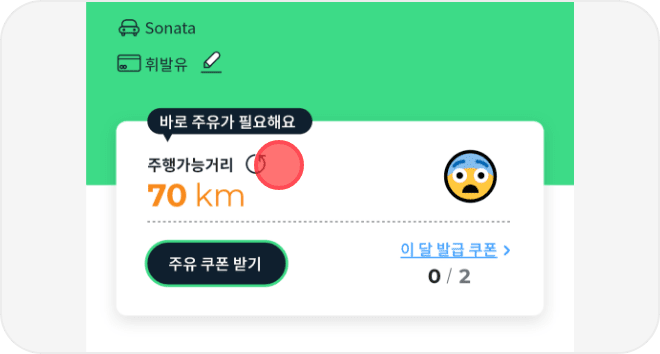
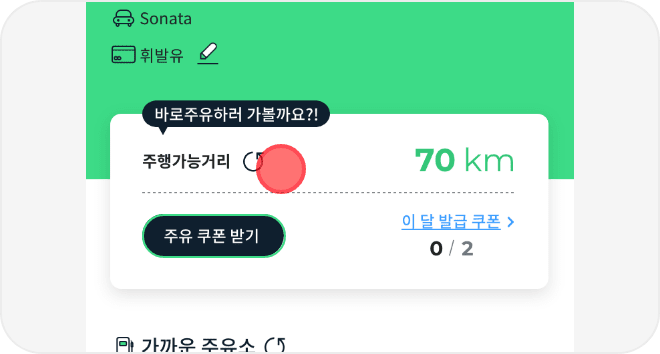
수정3차

diff --git a/webapp/src/html/connected-car.html b/webapp/src/html/connected-car.html
@@ -63,7 +63,7 @@
                     <div class="is-fullheight">
                         <div class="card-area card-wrap">
                             <!-- Case1 -->
-                            <div class="card reservation special connected-case1">
+                            <div class="card reservation special">
                                 <span class="tooltip-dark">바로주유를 준비하세요!</span>
                                 <div class="card-content">
                                     <div class="reservation-period">
@@ -76,7 +76,6 @@
                                             <strong class="price is-family-secondary"> 300</strong>
                                             km
                                         </p>
-                                        <i class="emoji"></i>
                                     </div>
                                     <div class="buttons">
                                         <button class="button is-small" disabled>주유 쿠폰 받기</button>
@@ -88,7 +87,7 @@
                                 </div>
                             </div>
                             <!-- Case2 -->
-                            <div class="card reservation special connected-case2">
+                            <div class="card reservation special">
                                 <span class="tooltip-dark">바로주유하러 가볼까요?!</span>
                                 <div class="card-content">
                                     <div class="reservation-period">
@@ -101,7 +100,6 @@
                                             <strong class="price is-family-secondary"> 300</strong>
                                             km
                                         </p>
-                                        <i class="emoji"></i>
                                     </div>
                                     <div class="buttons">
                                         <button class="button is-small is-black">주유 쿠폰 받기</button>
@@ -113,7 +111,7 @@
                                 </div>
                             </div>
                             <!-- Case3 -->
-                            <div class="card reservation special connected-case3">
+                            <div class="card reservation special">
                                 <span class="tooltip-dark">지금 바로주유가 필요해요!</span>
                                 <div class="card-content">
                                     <div class="reservation-period">
@@ -126,7 +124,6 @@
                                             <strong class="price is-family-secondary"> 300</strong>
                                             km
                                         </p>
-                                        <i class="emoji"></i>
                                     </div>
                                     <div class="buttons">
                                         <button class="button is-small is-black">주유 쿠폰 받기</button>

diff --git a/webapp/src/html/connected-car-before.html b/webapp/src/html/connected-car-before.html
@@ -29,6 +29,7 @@
             <ul class="bullet-list attend-list">
                 <li>본 서비스는 커넥티드카 차량의 주행가능거리 정보를 에너지플러스 앱으로 자동 연동하는 서비스입니다.</li>
                 <li>차량 연동을 완료하신 고객님들께는, 차량 주행가능거리가 100km 미만일 때, 바로주유 시 사용 가능한 쿠폰을 발급해드립니다. (월 최대 2회)</li>
+                <li>차량공유기능을 사용 중인 차량의 경우, 본 서비스 이용이 제한됩니다.</li>
             </ul>
           </div>
           <ul class="connected-account">
@@ -95,16 +96,20 @@
                 <p class="guide-title"><img src="./images/connected-guide03-title.png" alt="쿠폰발급"></p>
                 <ul class="guide-text">
                     <li>· 주행가능거리가 <strong>100km 미만인 경우</strong>, 즉시 사용 가능한<br>
-                        <strong>1,000원 바로주유 할인쿠폰</strong>을 발급받을 수 있어요.
-                    </li>
+                        <strong>1,000원 바로주유 할인쿠폰</strong>을 발급받을 수 있어요.</li>
+                    <li>· 로그인 시 알림을 통해 안내드려요.</li>
                     <li>· 유효기간 : 발급일로부터 3일 / 사용조건 : 1만원 이상 주유 시</li>
                     <li>· 월 최대 2회 / 일 1회 발급 가능
+                        <div class="imgbox">
+                            <img src="./images/connected-guide0300.png" alt="">
+                        </div>
                         <div class="imgbox">
                             <img src="./images/connected-guide0301.png" alt="">
                         </div>
                     </li>
-                    <li>· 주행가능거리 정보가 부정확한 것 같다면, <strong>새로고침 아이콘</strong>을
-                        눌러주세요. 최종 시동 종료 후 에너지플러스 앱 내 업데이트 까지
+                    <li>· 주행가능거리가 100km 미만임에도 <strong>알림을 받지 못하셨거나,</strong><br>
+                        정보가 부정확한 것 같다면, <strong>새로고침 아이콘을 눌러</strong>주세요.</li>
+                    <li>· 최종 시동 종료 후 에너지플러스 앱 내 업데이트까지<br>
                         <strong>최대 10분 소요</strong>될 수 있습니다.
                         <div class="imgbox">
                             <img src="./images/connected-guide0302.png" alt="">

diff --git a/webapp/src/sass/ep/_ep-new.sass b/webapp/src/sass/ep/_ep-new.sass
@@ -3234,7 +3234,7 @@ i.icon-npay-badge
             border-right: 4px solid transparent
             border-top: 6px solid $ep-navy
             border-bottom: 6px solid transparent
-    .card-content
+    .card .card-content
         .distance
             display: flex
             font-size: 12px
@@ -3245,7 +3245,11 @@ i.icon-npay-badge
                     widht: 20px
                     height: 20px
         .reservation-period
-            padding-bottom: 5px
+            display: flex
+            flex-direction: row
+            justify-content: space-between
+            align-items: center
+            padding-bottom: 9px
         .price-area,.price-area .price
             font-size: 24px
             line-height: 29px
@@ -3283,21 +3287,21 @@ i.icon-npay-badge
         .emoji
             background-image: url('/images/icon_emoji_happy.svg')
     .connected-case2.card.reservation
-        .tooltip-dark
-            background-color : $ep-red
-            &::after
-                border-top: 6px solid $ep-red
-        .price-area, .price-area .price
-            color: #f8891b
+        // .tooltip-dark
+        //     background-color : $ep-red
+        //     &::after
+        //         border-top: 6px solid $ep-red
+        // .price-area, .price-area .price
+        //     color: #f8891b
         .emoji
             background-image: url('/images/icon_emoji_cold.svg')
     .connected-case3.card.reservation
-        .tooltip-dark
-            background-color : $ep-red
-            &::after
-                border-top: 6px solid $ep-red
-        .price-area, .price-area .price
-            color: $ep-red
+        // .tooltip-dark
+        //     background-color : $ep-red
+        //     &::after
+        //         border-top: 6px solid $ep-red
+        // .price-area, .price-area .price
+        //     color: $ep-red
         .emoji
             background-image: url('/images/icon_emoji_fear.svg')
     .station-list
@@ -3475,6 +3479,8 @@ i.icon-npay-badge
       margin : 10px 0 30px
       img
         display : block
+      & +.imgbox
+        margin-top : -17px 
     &:not(:last-child)
       &::after
         content : ''

diff --git a/webapp/src/html/include/bottom-sheet-connected-car-guide.html b/webapp/src/html/include/bottom-sheet-connected-car-guide.html
@@ -49,16 +49,20 @@
                         <p class="guide-title"><img src="./images/connected-guide03-title.png" alt="쿠폰발급"></p>
                         <ul class="guide-text">
                             <li>· 주행가능거리가 <strong>100km 미만인 경우</strong>, 즉시 사용 가능한<br>
-                                <strong>1,000원 바로주유 할인쿠폰</strong>을 발급받을 수 있어요.
-                            </li>
+                                <strong>1,000원 바로주유 할인쿠폰</strong>을 발급받을 수 있어요.</li>
+                            <li>· 로그인 시 알림을 통해 안내드려요.</li>
                             <li>· 유효기간 : 발급일로부터 3일 / 사용조건 : 1만원 이상 주유 시</li>
                             <li>· 월 최대 2회 / 일 1회 발급 가능
+                                <div class="imgbox">
+                                    <img src="./images/connected-guide0300.png" alt="">
+                                </div>
                                 <div class="imgbox">
                                     <img src="./images/connected-guide0301.png" alt="">
                                 </div>
                             </li>
-                            <li>· 주행가능거리 정보가 부정확한 것 같다면, <strong>새로고침 아이콘</strong>을
-                                눌러주세요. 최종 시동 종료 후 에너지플러스 앱 내 업데이트 까지
+                            <li>· 주행가능거리가 100km 미만임에도 <strong>알림을 받지 못하셨거나,</strong><br>
+                                정보가 부정확한 것 같다면, <strong>새로고침 아이콘을 눌러</strong>주세요.</li>
+                            <li>· 최종 시동 종료 후 에너지플러스 앱 내 업데이트까지<br>
                                 <strong>최대 10분 소요</strong>될 수 있습니다.
                                 <div class="imgbox">
                                     <img src="./images/connected-guide0302.png" alt="">

diff --git a/webapp/src/html/modal-connected-car-guidance-bottom-sheet.html b/webapp/src/html/modal-connected-car-guidance-bottom-sheet.html
@@ -63,7 +63,7 @@
                     <div class="is-fullheight">
                         <div class="card-area card-wrap">
                             <!-- Case1 -->
-                            <div class="card reservation special connected-case1">
+                            <div class="card reservation special">
                                 <span class="tooltip-dark">바로주유를 준비하세요!</span>
                                 <div class="card-content">
                                     <div class="reservation-period">
@@ -88,7 +88,7 @@
                                 </div>
                             </div>
                             <!-- Case2 -->
-                            <div class="card reservation special connected-case2">
+                            <div class="card reservation special">
                                 <span class="tooltip-dark">바로주유하러 가볼까요?!</span>
                                 <div class="card-content">
                                     <div class="reservation-period">
@@ -113,7 +113,7 @@
                                 </div>
                             </div>
                             <!-- Case3 -->
-                            <div class="card reservation special connected-case3">
+                            <div class="card reservation special">
                                 <span class="tooltip-dark">지금 바로주유가 필요해요!</span>
                                 <div class="card-content">
                                     <div class="reservation-period">

diff --git a/webapp/src/html/modal-connected-car-guide-bottom-sheet.html b/webapp/src/html/modal-connected-car-guide-bottom-sheet.html
@@ -63,7 +63,7 @@
                     <div class="is-fullheight">
                         <div class="card-area card-wrap">
                             <!-- Case1 -->
-                            <div class="card reservation special connected-case1">
+                            <div class="card reservation special">
                                 <span class="tooltip-dark">바로주유를 준비하세요!</span>
                                 <div class="card-content">
                                     <div class="reservation-period">
@@ -88,7 +88,7 @@
                                 </div>
                             </div>
                             <!-- Case2 -->
-                            <div class="card reservation special connected-case2">
+                            <div class="card reservation special">
                                 <span class="tooltip-dark">바로주유하러 가볼까요?!</span>
                                 <div class="card-content">
                                     <div class="reservation-period">
@@ -113,7 +113,7 @@
                                 </div>
                             </div>
                             <!-- Case3 -->
-                            <div class="card reservation special connected-case3">
+                            <div class="card reservation special">
                                 <span class="tooltip-dark">지금 바로주유가 필요해요!</span>
                                 <div class="card-content">
                                     <div class="reservation-period">

diff --git a/webapp/src/html/modal-connected-car-selection-bottom-sheet.html b/webapp/src/html/modal-connected-car-selection-bottom-sheet.html
@@ -63,7 +63,7 @@
                     <div class="is-fullheight">
                         <div class="card-area card-wrap">
                             <!-- Case1 -->
-                            <div class="card reservation special connected-case1">
+                            <div class="card reservation special">
                                 <span class="tooltip-dark">바로주유를 준비하세요!</span>
                                 <div class="card-content">
                                     <div class="reservation-period">
@@ -88,7 +88,7 @@
                                 </div>
                             </div>
                             <!-- Case2 -->
-                            <div class="card reservation special connected-case2">
+                            <div class="card reservation special">
                                 <span class="tooltip-dark">바로주유하러 가볼까요?!</span>
                                 <div class="card-content">
                                     <div class="reservation-period">
@@ -113,7 +113,7 @@
                                 </div>
                             </div>
                             <!-- Case3 -->
-                            <div class="card reservation special connected-case3">
+                            <div class="card reservation special">
                                 <span class="tooltip-dark">지금 바로주유가 필요해요!</span>
                                 <div class="card-content">
                                     <div class="reservation-period">
